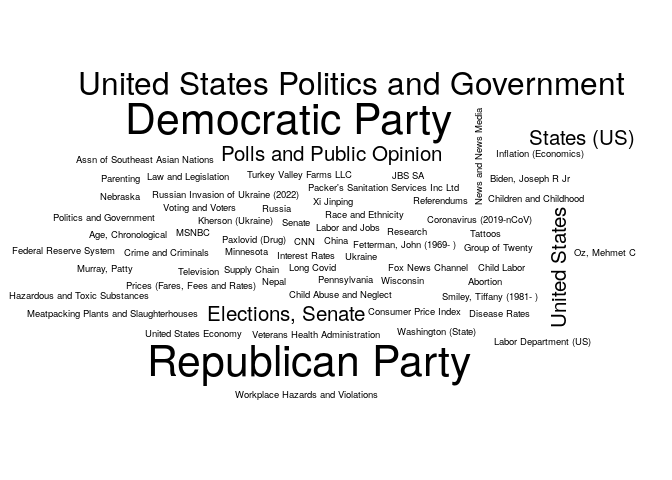
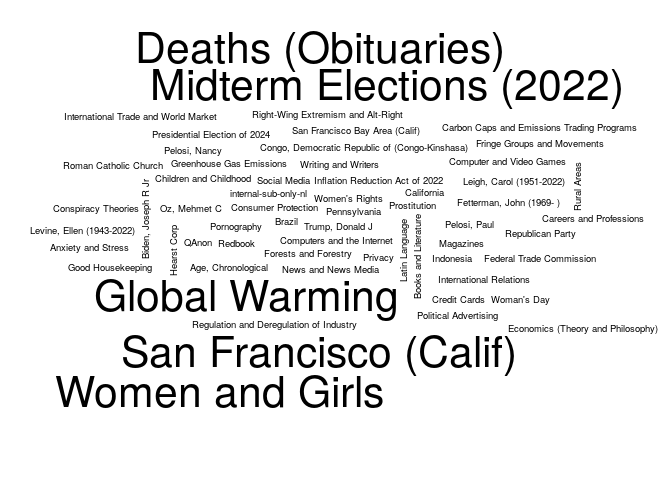
Updating the NYT report

Changed region(s): [[0.0, 0.0625, 0.9688, 0.875]]

diff --git a/03-nytimes/README.md b/03-nytimes/README.md
@@ -5,7 +5,7 @@ The following is an example of how to use the [NYTimes
 API](https://developer.nytimes.com/) to get a list of articles related
 to a particular term. Here we are searching articles that include the
 term `"health"`, and that were published up to seven days ago since
-2022-11-14.
+2022-11-21.
 
 ``` r
 # Preparing a function to use the GET method with the NYTimes API
@@ -83,25 +83,25 @@ colnames(tab) <- c("Keyword", "# Articles")
 knitr::kable(tab, row.names = FALSE)
 ```
 
-| Keyword                               | \# Articles |
-|:--------------------------------------|------------:|
-| Midterm Elections (2022)              |          70 |
-| Democratic Party                      |          40 |
-| Republican Party                      |          40 |
-| United States Politics and Government |          30 |
-| Elections, Senate                     |          20 |
-| Polls and Public Opinion              |          20 |
-| States (US)                           |          20 |
-| United States                         |          20 |
-| Abortion                              |          10 |
-| Age, Chronological                    |          10 |
-| Assn of Southeast Asian Nations       |          10 |
-| Biden, Joseph R Jr                    |          10 |
-| Child Abuse and Neglect               |          10 |
-| Child Labor                           |          10 |
-| Children and Childhood                |          10 |
-| China                                 |          10 |
-| CNN                                   |          10 |
-| Consumer Price Index                  |          10 |
-| Coronavirus (2019-nCoV)               |          10 |
-| Crime and Criminals                   |          10 |
+| Keyword                                        | \# Articles |
+|:-----------------------------------------------|------------:|
+| United States Politics and Government          |          30 |
+| Deaths (Obituaries)                            |          20 |
+| Democratic Party                               |          20 |
+| Global Warming                                 |          20 |
+| Midterm Elections (2022)                       |          20 |
+| San Francisco (Calif)                          |          20 |
+| Women and Girls                                |          20 |
+| Age, Chronological                             |          10 |
+| Anxiety and Stress                             |          10 |
+| Biden, Joseph R Jr                             |          10 |
+| Books and Literature                           |          10 |
+| Brazil                                         |          10 |
+| California                                     |          10 |
+| Carbon Caps and Emissions Trading Programs     |          10 |
+| Careers and Professions                        |          10 |
+| Children and Childhood                         |          10 |
+| Computer and Video Games                       |          10 |
+| Computers and the Internet                     |          10 |
+| Congo, Democratic Republic of (Congo-Kinshasa) |          10 |
+| Conspiracy Theories                            |          10 |
